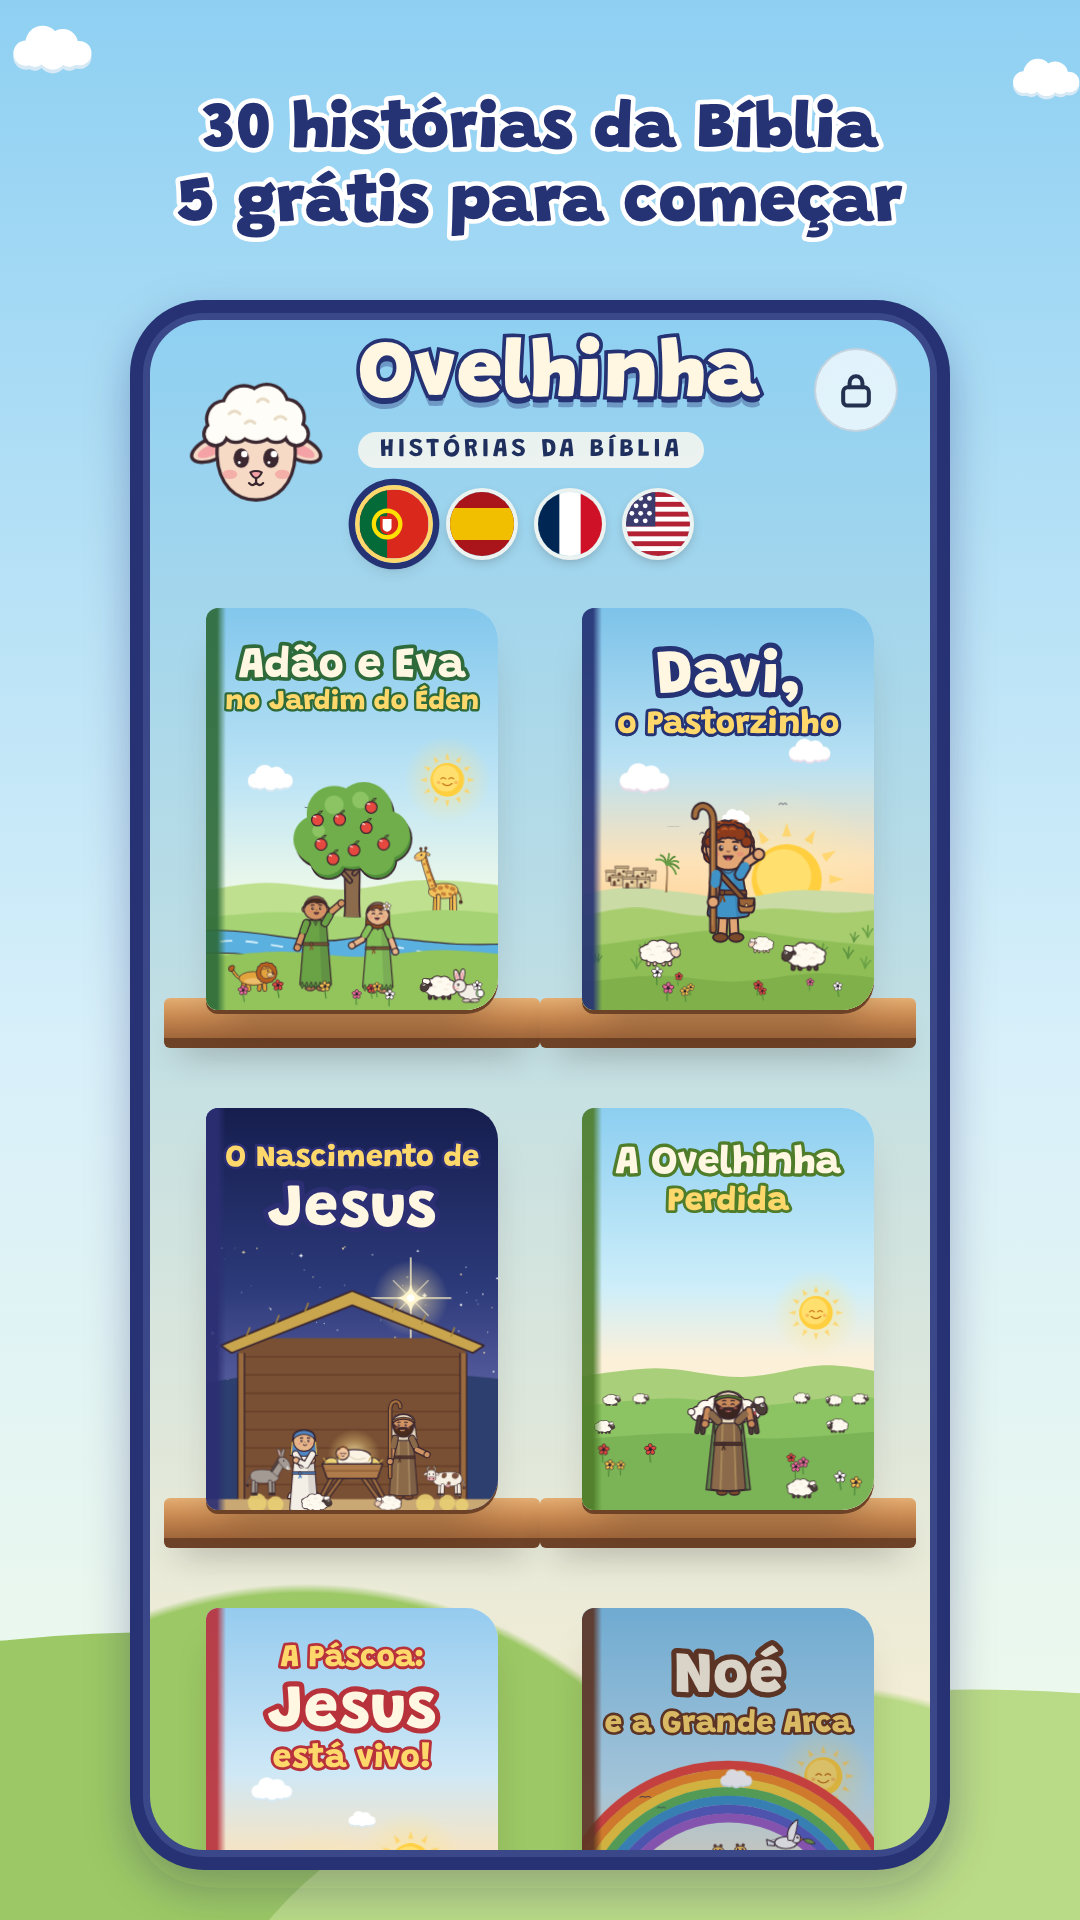
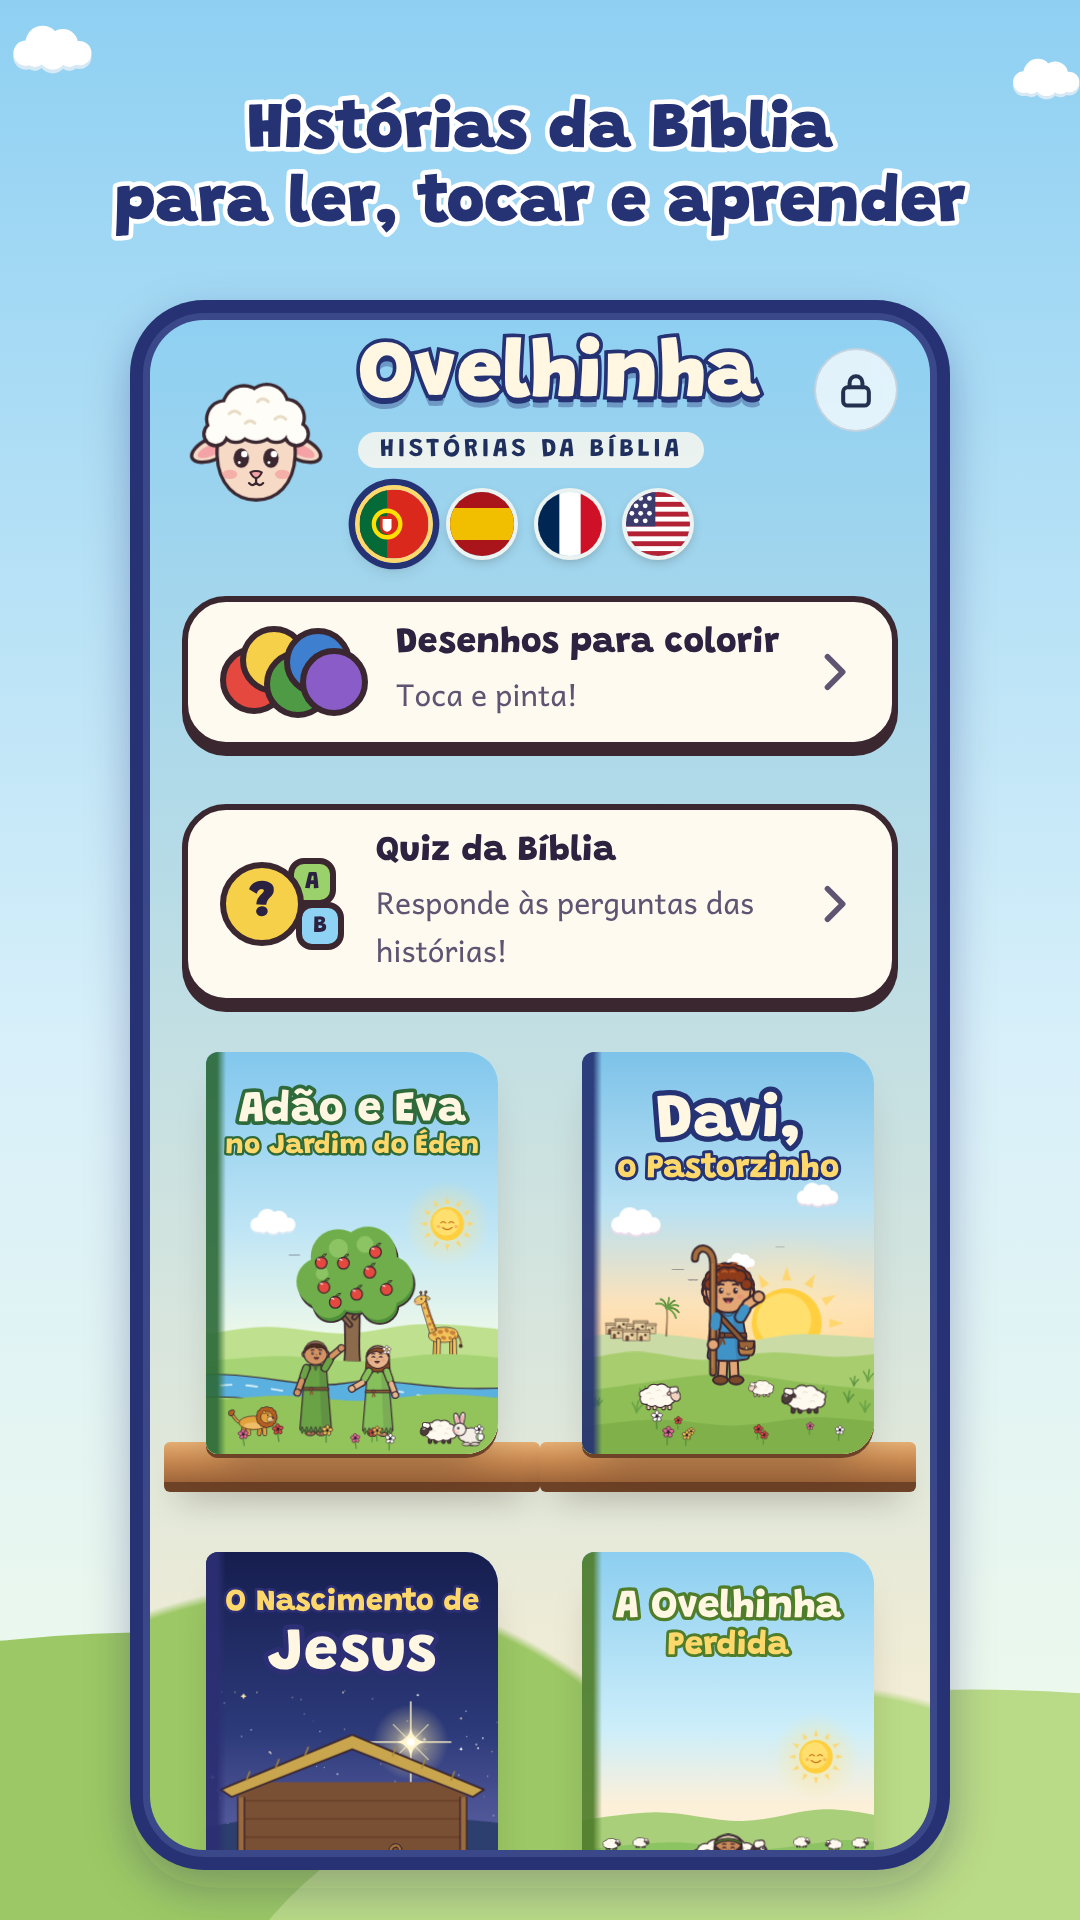
Fotos novas do Google Play (quiz, colorir, tempo de ecrã; sem número de histórias)
Claude-Session: https://claude.ai/code/session_014Dz86Y8J5d2VBWo7BqgAHi

diff --git a/src/js/colorir.js b/src/js/colorir.js
@@ -45,7 +45,7 @@ const LineArt = {
       el.removeAttribute('filter'); el.style.filter = 'none';
       if (noFill) {
         // traço grosso de cor (pernas, braços, cajados): fica branco com o contorno que já tem por baixo
-        if (this.lum(stroke) > .28 && sw >= 3) { el.style.stroke = '#ffffff'; this.region(el, 'stroke', groups, () => gid++); }
+        if (this.lum(stroke) > .28 && sw >= 3) { el.dataset.oc = stroke; el.style.stroke = '#ffffff'; this.region(el, 'stroke', groups, () => gid++); }
         // linhas finas de cor (raios, cortinas, cordas) passam a linhas escuras
         else if (!this.isOL(stroke)) el.style.stroke = OL;
         continue;
@@ -55,7 +55,7 @@ const LineArt = {
       if (!/url\(/.test(fill) && this.lum(fill) < .28 && (this.isOL(fill) || this.area(el) < 2500)) {
         // linhas retas (braços, pernas) têm o preenchimento por omissão, que não se vê: conta o traço
         if (stroke && stroke !== 'none' && this.lum(stroke) > .28 && !this.isOL(stroke)) {
-          if (sw >= 3) { el.style.stroke = '#ffffff'; this.region(el, 'stroke', groups, () => gid++); } else el.style.stroke = OL;
+          if (sw >= 3) { el.dataset.oc = stroke; el.style.stroke = '#ffffff'; this.region(el, 'stroke', groups, () => gid++); } else el.style.stroke = OL;
         }
         continue;
       }
@@ -65,6 +65,7 @@ const LineArt = {
       if (!stroke || stroke === 'none') {
         if (this.area(el) > 9000) { el.style.stroke = OL; el.style.strokeWidth = '1.8'; el.setAttribute('vector-effect', 'non-scaling-stroke'); }
       }
+      el.dataset.oc = fill; // cor original (usada nas fotos das lojas para mostrar um desenho já meio pintado)
       this.region(el, 'fill', groups, () => gid++, fill);
     }
     this.ink(svg);

diff --git a/scripts/store/screens.py b/scripts/store/screens.py
@@ -27,15 +27,30 @@ DEVICES = {
 
 # nome, endereço no app, toques (elemento, espera em ms depois do toque), espera final, frase
 SHOTS = [
-    ('estante', 'estante', [], 900, ('30 histórias da Bíblia', '5 grátis para começar')),
+    ('estante', 'estante', [], 900, ('Histórias da Bíblia', 'para ler, tocar e aprender')),
     ('moises', 'moises-10', [('cajado', 3300)], 300, ('Toca no cajado', 'e o mar abre-se!')),
-    ('noe', 'noe-12', [('nuvem', 2900)], 200, ('Ilustrações animadas', 'em todas as páginas')),
     ('davi', 'davi-2', [('davi', 230), ('davi', 230), ('star1', 160), ('davi', 230), ('z1', 420)], 0, ('Sons e música', 'a cada toque')),
-    ('adao', 'adao-2', [('s0', 250), ('s1', 250), ('s2', 250), ('s3', 2300)], 200, ('Da criação do mundo', 'até à Páscoa')),
+    ('quiz', 'estante', [], 700, ('Um quiz em cada história', 'para aprender a brincar')),
+    ('colorir', 'estante', [], 500, ('Desenhos para colorir', 'com um só toque')),
+    ('noe', 'noe-12', [('nuvem', 2900)], 200, ('Ilustrações animadas', 'em todas as páginas')),
     ('ovelha', 'ovelha-7', [('pastor', 1200)], 300, ('Histórias que mostram', 'o amor de Deus')),
-    ('conversa', 'moises-14', [], 700, ('Perguntas para', 'conversar em família')),
-    ('pais', 'estante', [], 600, ('Área dos pais protegida', 'sem anúncios e sem registo')),
+    ('pais', 'estante', [], 600, ('Área dos pais com', 'tempo de ecrã e sem anúncios')),
 ]
+
+# quiz: uma pergunta do Davi já respondida (botão verde e estrelas)
+QUIZ = """() => { App.showQuiz('davi'); Quiz.cur.order = [1, 0, 2, 3, 4]; Quiz.ask();
+  document.querySelector('.qopt[data-ok="0"]').click(); document.querySelector('.qopt[data-ok="1"]').click(); }"""
+# colorir: o desenho da festa da Ovelhinha meio pintado com as cores originais
+COLORIR = """() => { App.showColor(); Colorir.open('ovelha', 7);
+  const seen = new Set();
+  for (const el of Colorir.svg.querySelectorAll('[data-ci]')) {
+    const g = el.dataset.ci, c = el.dataset.oc || '';
+    if (seen.has(g) || !/^rgb/.test(c)) continue; seen.add(g);
+    const b = el.getBBox(); if (b.x + b.width / 2 > 520) continue;
+    const m = c.match(/[\\d.]+/g).map(Number), hex = '#' + m.slice(0, 3).map(v => Math.round(v).toString(16).padStart(2, '0')).join('');
+    Colorir.map[g] = hex; LineArt.paint(Colorir.svg, g, hex);
+  }
+  Colorir.pick('#3f7fd0'); }"""
 
 CLEAN = '#btnFull, .email, #installCard, svg.scene .cue { display: none !important; } * { caret-color: transparent !important; }'
 
@@ -58,7 +73,7 @@ def serve():
 async def app_shot(b, base, dev, shot, path, dsf):
     name, where, taps, settle, _ = shot
     ctx = await b.new_context(viewport={'width': dev['vp'][0], 'height': dev['vp'][1]}, device_scale_factor=dsf, color_scheme='light', locale='pt-PT')
-    if name not in ('estante', 'pais'): await ctx.add_init_script(UNLOCK)
+    if name not in ('estante', 'pais', 'colorir'): await ctx.add_init_script(UNLOCK)
     pg = await ctx.new_page()
     errs = []
     pg.on('pageerror', lambda e: errs.append(str(e)))
@@ -67,7 +82,11 @@ async def app_shot(b, base, dev, shot, path, dsf):
     await pg.evaluate('document.fonts.ready')
     await pg.wait_for_timeout(1400)
     if name == 'pais':
-        await pg.evaluate('() => { Parents.open(); Parents.unlock(); }')
+        await pg.evaluate("() => { store.set('ov:tempo', '30'); Parents.open(); Parents.unlock(); }")
+        await pg.wait_for_timeout(300)
+        await pg.evaluate("() => { const g = document.getElementById('tempoOpts'); g.closest('.group').scrollIntoView({ block: 'center' }); }")
+    if name == 'quiz': await pg.evaluate(QUIZ)
+    if name == 'colorir': await pg.evaluate(COLORIR)
     for k, ms in taps:
         if not await pg.evaluate(TAP, k): errs.append(f'não achei o elemento "{k}"')
         await pg.wait_for_timeout(ms)
